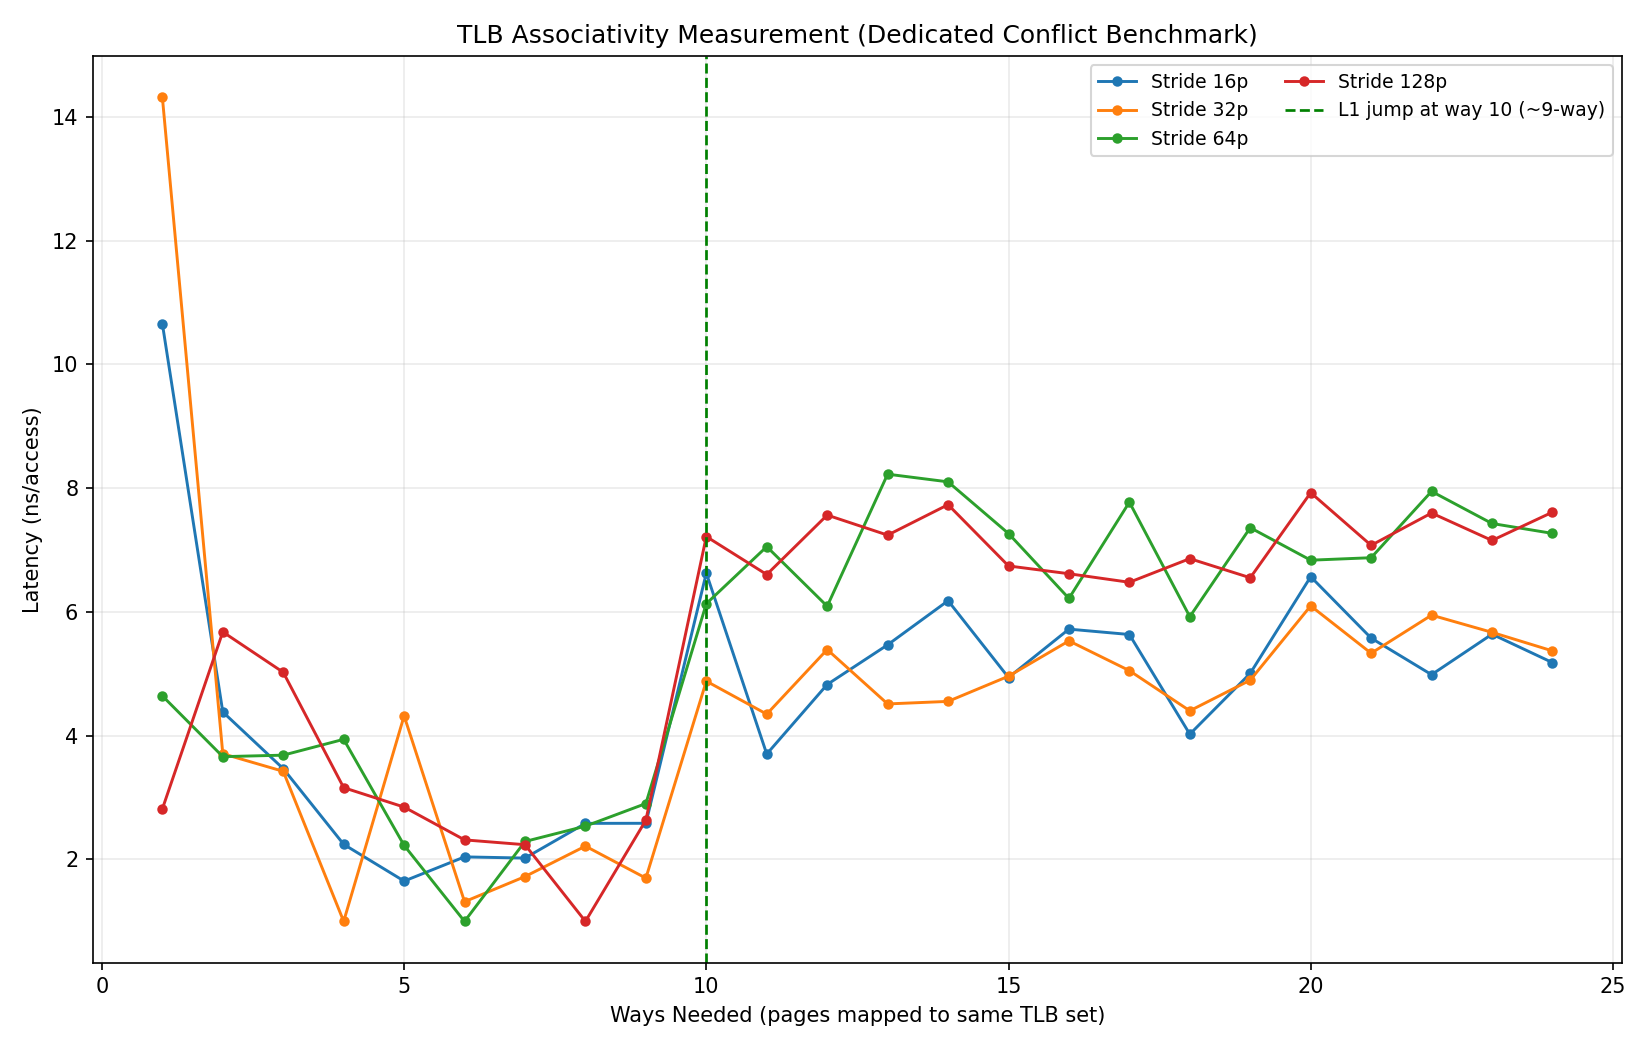
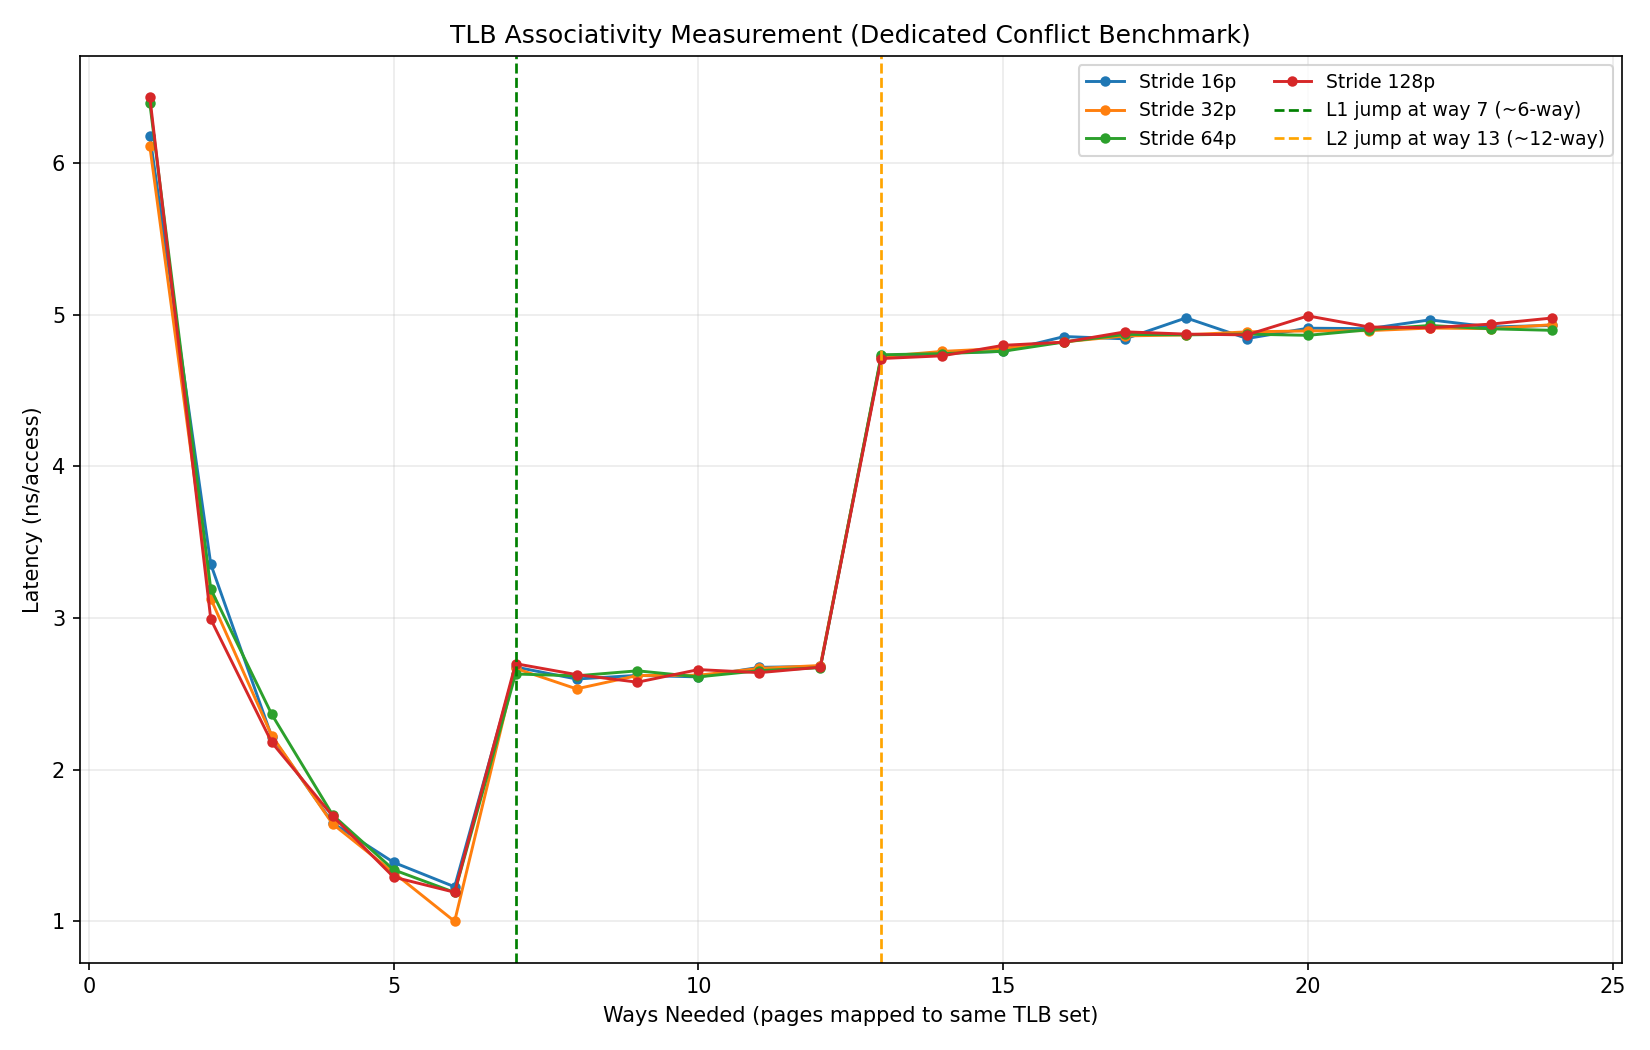
feat: update TLB analysis metrics and improve benchmark data for accuracy

diff --git a/ComputerArchitecture/plot_memory_benchmark.py b/ComputerArchitecture/plot_memory_benchmark.py
@@ -214,7 +214,8 @@ def estimate_tlb_entries_and_penalty(array_bytes, stride_bytes, matrix, page_str
 
     candidates = []
     for i in range(1, len(latencies)):
-        if pages[i] < 4:
+        # Start from at least 8 pages to avoid tiny-working-set cache artifacts.
+        if pages[i] < 8:
             continue
         prev_v = latencies[i - 1]
         cur_v = latencies[i]
@@ -231,8 +232,11 @@ def estimate_tlb_entries_and_penalty(array_bytes, stride_bytes, matrix, page_str
 
     primary = None
     for item in candidates:
-        _, ratio, delta, _ = item
-        if ratio >= 1.35 and delta >= 0.8:
+        i, ratio, delta, _ = item
+        sustained = False
+        if i + 1 < len(latencies) and latencies[i + 1] >= latencies[i] * 0.90:
+            sustained = True
+        if ratio >= 1.35 and delta >= 0.8 and sustained:
             primary = item
             break
     if primary is None:
@@ -242,7 +246,9 @@ def estimate_tlb_entries_and_penalty(array_bytes, stride_bytes, matrix, page_str
     knee2_i = None
     secondary_pool = [
         t for t in candidates
-        if t[0] > knee1_i and pages[t[0]] >= pages[knee1_i] * 4.0
+        if t[0] > knee1_i
+        and pages[t[0]] >= pages[knee1_i] * 4.0
+        and pages[t[0]] <= 4096.0
     ]
     if secondary_pool:
         knee2_i = max(secondary_pool, key=lambda t: t[3])[0]

diff --git a/ComputerArchitecture/HW2_2.25.c b/ComputerArchitecture/HW2_2.25.c
@@ -22,7 +22,7 @@
 
 #define PAGE_BYTES 4096
 #define PAGE_ELEMS (PAGE_BYTES / (int)sizeof(int))
-#define TLB_ASSOC_MEASURE_SECS 1.0
+#define TLB_ASSOC_MEASURE_SECS 3.0
 #define TLB_ASSOC_MAX_WAYS 24
 
 int x[ARRAY_MAX];
